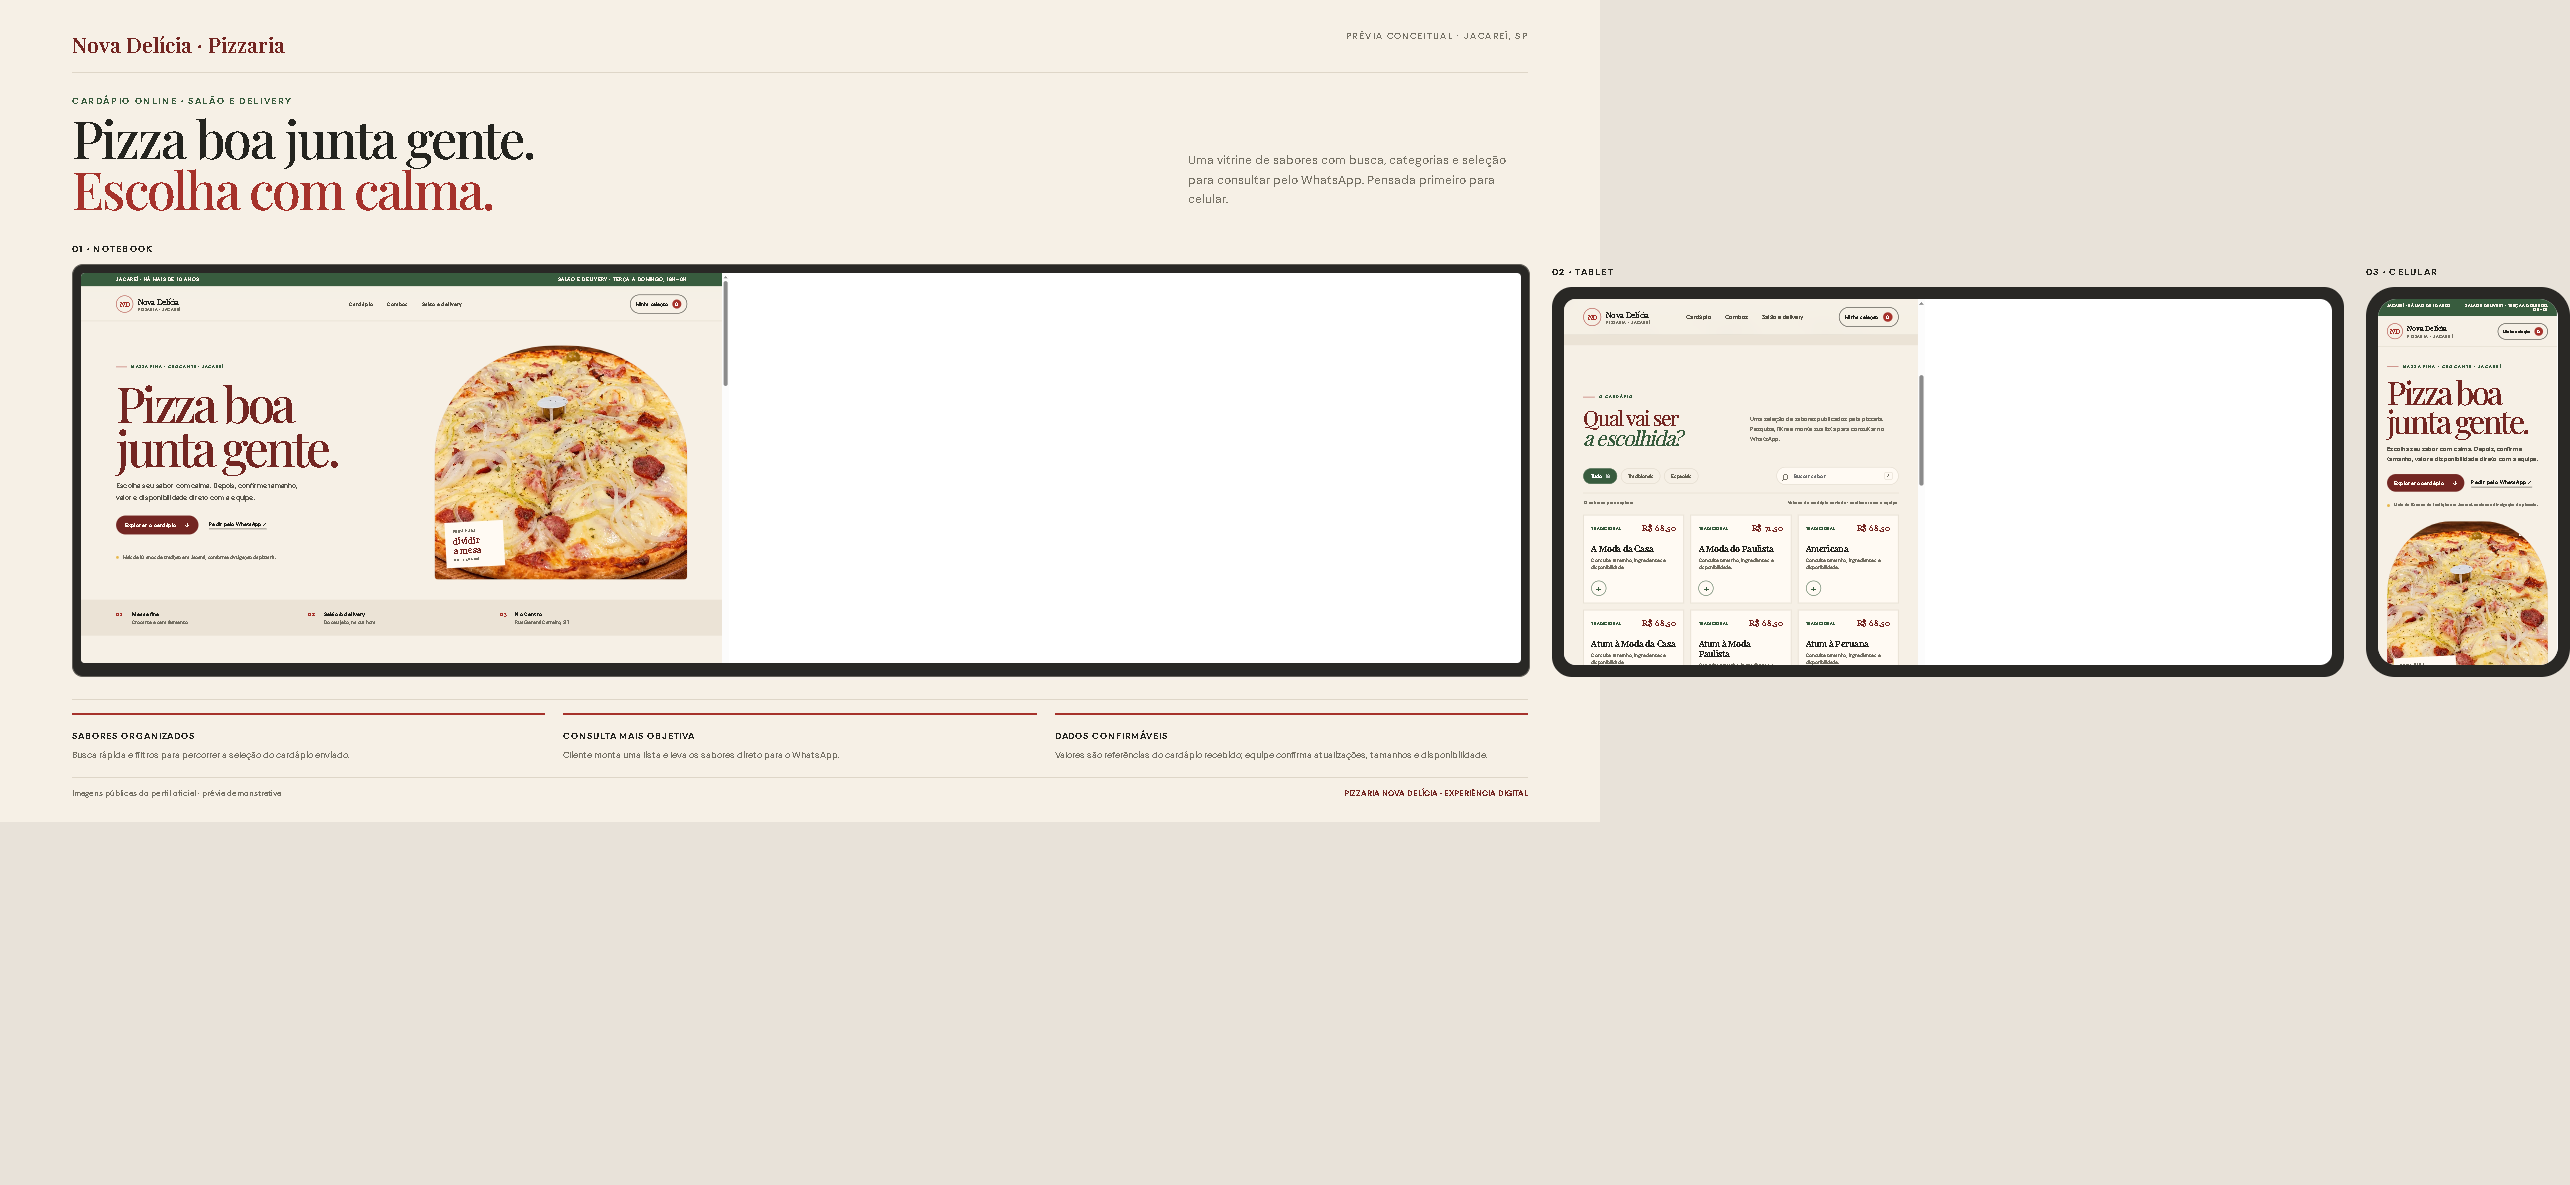
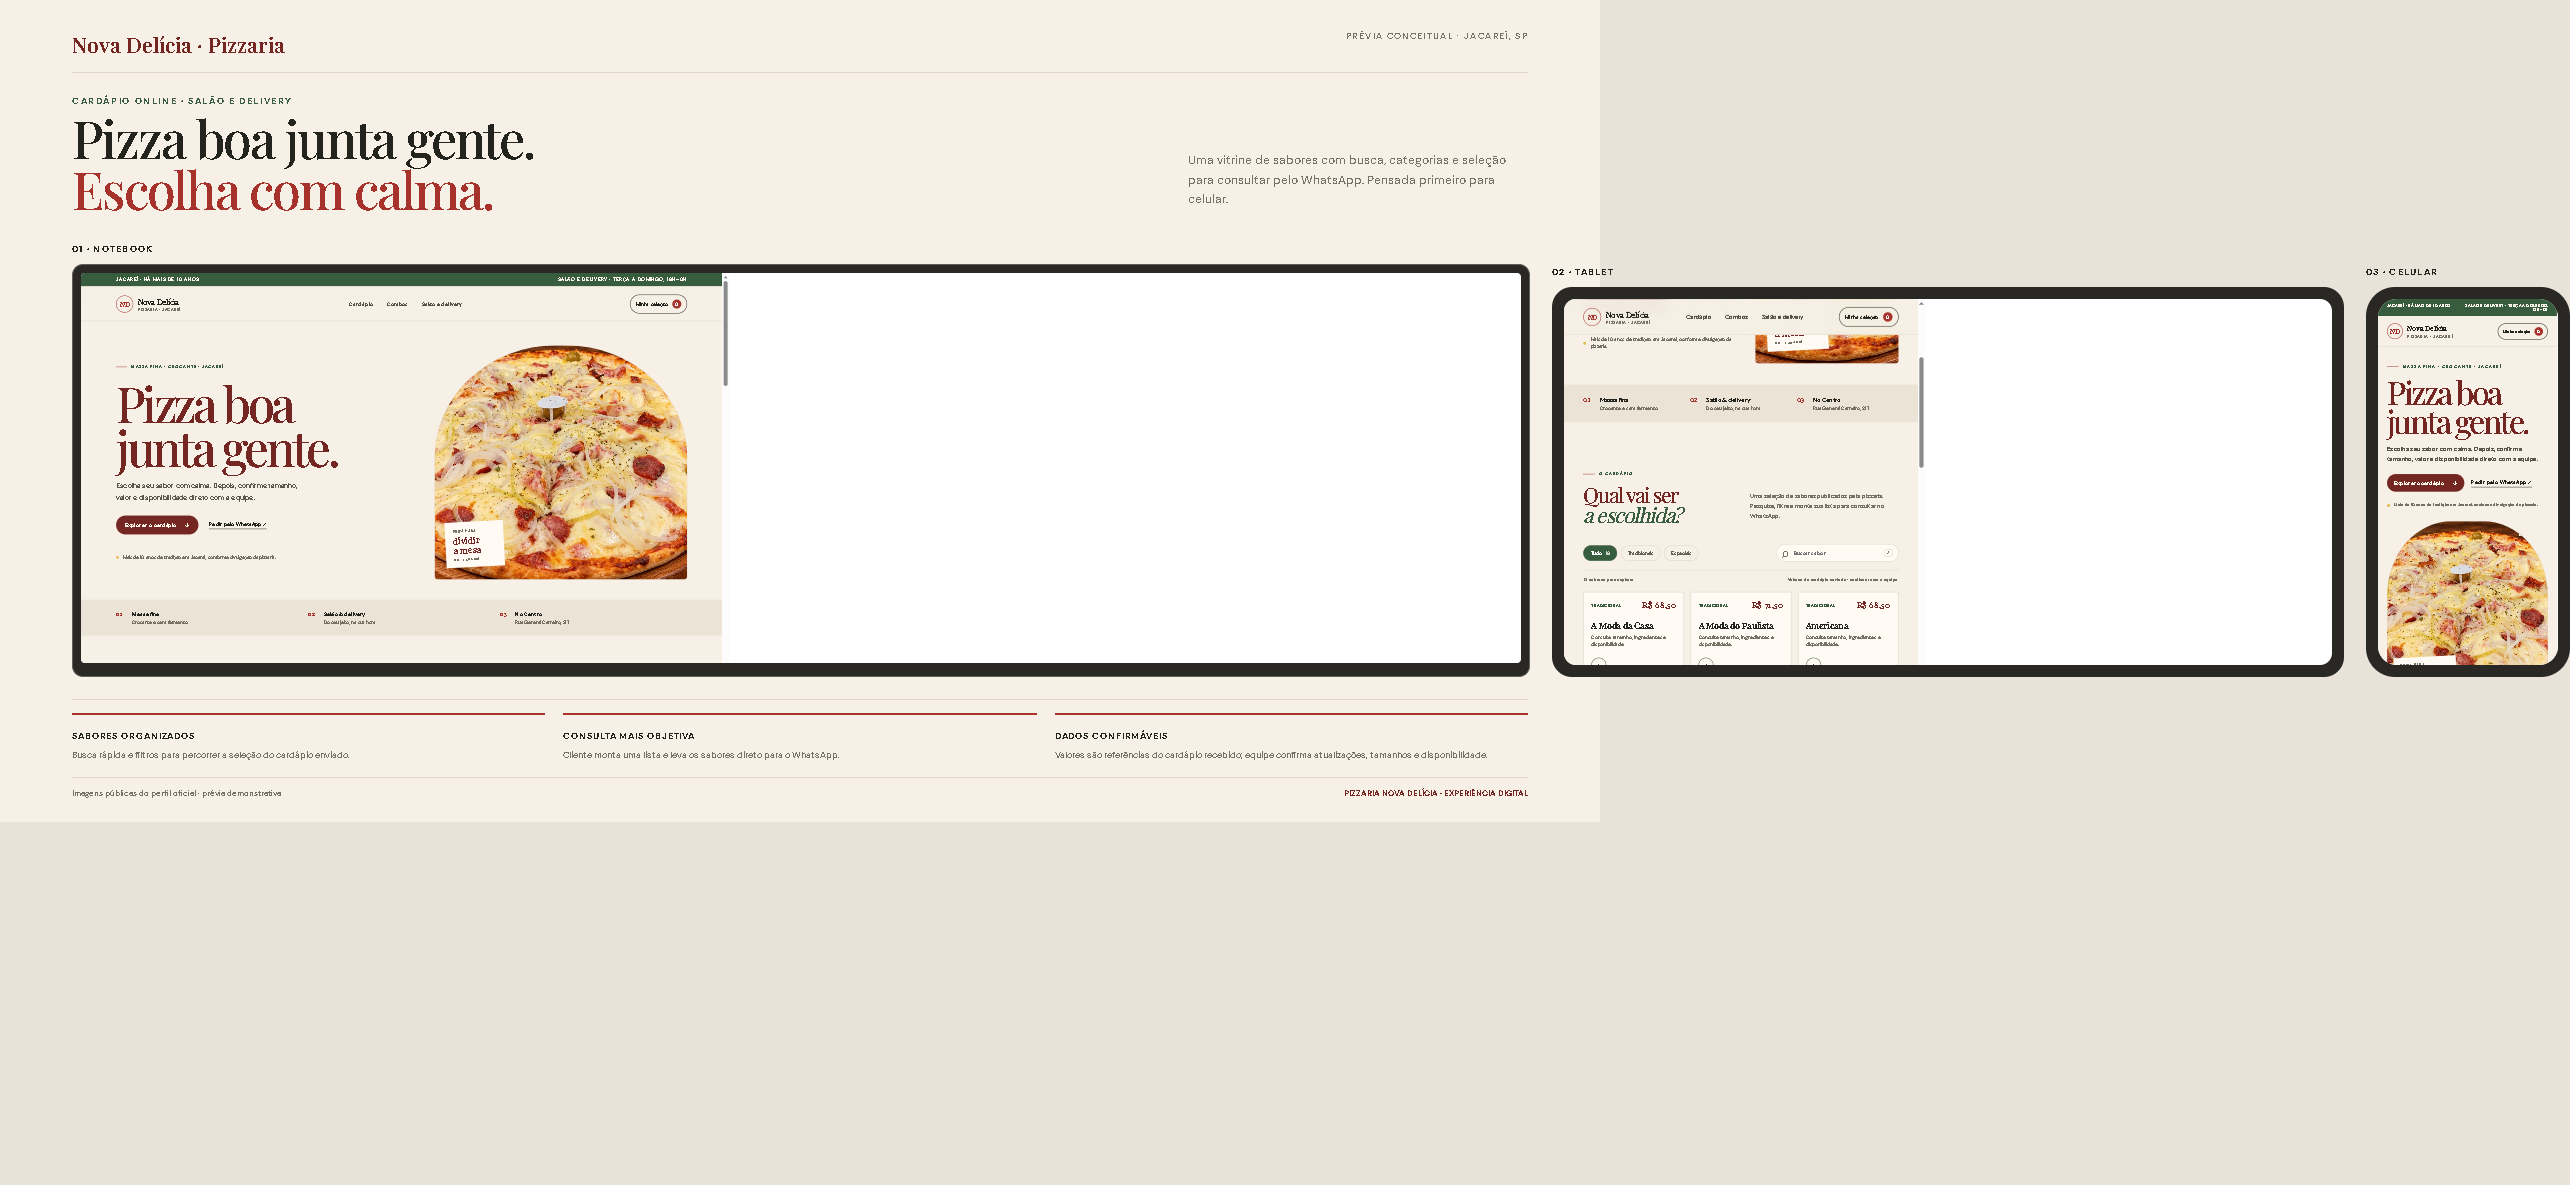
Polish three-device presentation board

Changed region(s): [[0.6226, 0.3435, 0.716, 0.562], [0.6848, 0.281, 0.7471, 0.3122], [0.6848, 0.3435, 0.716, 0.3747]]

diff --git a/arte/prancha.html b/arte/prancha.html
@@ -1,4 +1,2 @@
-<!doctype html><html lang="pt-BR"><head><meta charset="utf-8"><meta name="viewport" content="width=device-width,initial-scale=1"><title>Nova Delícia · Prancha de apresentação</title><link rel="preconnect" href="https://fonts.googleapis.com"><link href="https://fonts.googleapis.com/css2?family=DM+Sans:wght@400;500;600;700&family=Playfair+Display:wght@500;600;700&display=swap" rel="stylesheet"><style>
-*{box-sizing:border-box}body{margin:0;background:#e8e2d9;color:#24241f;font-family:'DM Sans',sans-serif}.sheet{width:min(100%,1600px);margin:auto;padding:30px 4.5% 24px;background:#f6f0e6}.top{display:flex;justify-content:space-between;border-bottom:1px solid #ded6c8;padding-bottom:14px}.brand{font:600 21px 'Playfair Display',serif;color:#732622}.meta{font-size:9px;letter-spacing:.15em;text-transform:uppercase;color:#767266}.intro{display:flex;justify-content:space-between;align-items:end;gap:30px;padding:22px 0}.intro h1{font:500 clamp(30px,4vw,52px)/.98 'Playfair Display',serif;letter-spacing:-.04em;margin:6px 0}.intro h1 em{font-style:normal;color:#a6322b}.intro p{max-width:340px;color:#767266;font-size:12px;line-height:1.6}.eyebrow{font-size:9px;letter-spacing:.18em;text-transform:uppercase;color:#385c3e;font-weight:700}.devices{display:grid;grid-template-columns:1.6fr .62fr .45fr;gap:22px;align-items:end}.label{font-size:9px;letter-spacing:.14em;text-transform:uppercase;font-weight:700;margin-bottom:9px}.laptop{padding:8px 8px 13px;border:1px solid #625f58;border-radius:11px;background:#292825}.laptop iframe{display:block;width:1440px;height:1010px;border:0;transform:scale(.63);transform-origin:top left}.laptop-screen{height:390px;overflow:hidden;border-radius:4px;background:white}.tablet{height:390px;border:7px solid #292825;border-radius:20px;padding:5px;background:#292825}.tablet iframe{width:768px;height:1024px;border:0;transform:scale(.63);transform-origin:top left}.tablet-screen{height:100%;overflow:hidden;border-radius:12px;background:white}.phone{height:390px;width:204px;margin:auto;border:7px solid #292825;border-radius:29px;padding:5px;background:#292825}.phone-screen{height:100%;overflow:hidden;border-radius:19px;background:white}.phone iframe{width:390px;height:844px;border:0;transform:scale(.32);transform-origin:top left}.notes{display:grid;grid-template-columns:repeat(3,1fr);gap:18px;margin-top:22px;padding-top:13px;border-top:1px solid #ded6c8}.note{border-top:2px solid #a6322b;padding-top:8px}.note b{font-size:9px;text-transform:uppercase;letter-spacing:.1em}.note p{font-size:9px;line-height:1.5;color:#767266;margin:5px 0 0}.foot{display:flex;justify-content:space-between;border-top:1px solid #ded6c8;padding-top:10px;margin-top:15px;font-size:8px;color:#767266}.foot strong{color:#732622}@media(max-width:760px){.sheet{padding:18px 5%}.intro{display:block}.intro p{margin-bottom:0}.devices{grid-template-columns:1fr 1fr}.device:first-child{grid-column:1/-1}.laptop-screen{height:230px}.laptop iframe{transform:scale(.63)}.tablet,.phone{height:340px}.tablet iframe{transform:scale(.63)}.phone{height:340px;width:178px}.phone iframe{transform:scale(.63)}.notes{grid-template-columns:1fr}.foot{display:block;line-height:1.6}.meta{text-align:right;max-width:145px}}
-</style></head><body><main class="sheet"><header class="top"><div class="brand">Nova Delícia · Pizzaria</div><div class="meta">Prévia conceitual · Jacareí, SP</div></header><section class="intro"><div><div class="eyebrow">Cardápio online · salão e delivery</div><h1>Pizza boa junta gente.<br><em>Escolha com calma.</em></h1></div><p>Uma vitrine de sabores com busca, categorias e seleção para consultar pelo WhatsApp. Pensada primeiro para celular.</p></section><section class="devices"><article class="device"><div class="label">01 · Notebook</div><div class="laptop"><div class="laptop-screen"><iframe src="../index.html" title="Site em notebook"></iframe></div></div></article><article class="device"><div class="label">02 · Tablet</div><div class="tablet"><div class="tablet-screen"><iframe src="../index.html#cardapio" title="Cardápio em tablet"></iframe></div></div></article><article class="device"><div class="label">03 · Celular</div><div class="phone"><div class="phone-screen"><iframe src="../index.html" title="Site em celular"></iframe></div></div></article></section><section class="notes"><article class="note"><b>Sabores organizados</b><p>Busca rápida e filtros para percorrer a seleção do cardápio enviado.</p></article><article class="note"><b>Consulta mais objetiva</b><p>Cliente monta uma lista e leva os sabores direto para o WhatsApp.</p></article><article class="note"><b>Dados confirmáveis</b><p>Valores são referências do cardápio recebido; equipe confirma atualizações, tamanhos e disponibilidade.</p></article></section><footer class="foot"><span>Imagens públicas do perfil oficial · prévia demonstrativa</span><strong>PIZZARIA NOVA DELÍCIA · EXPERIÊNCIA DIGITAL</strong></footer></main></body></html>
-
+<!doctype html><html lang="pt-BR"><head><meta charset="utf-8"><meta name="viewport" content="width=device-width,initial-scale=1"><title>Nova Delícia · Prancha de apresentação</title><link rel="preconnect" href="https://fonts.googleapis.com"><link href="https://fonts.googleapis.com/css2?family=DM+Sans:wght@400;500;600;700&family=Playfair+Display:wght@500;600;700&display=swap" rel="stylesheet"><style>*{box-sizing:border-box}body{margin:0;background:#e8e2d9;color:#24241f;font-family:'DM Sans',sans-serif}.sheet{width:min(100%,1600px);min-height:100vh;margin:auto;padding:30px 4.5% 24px;background:#f6f0e6}.top{display:flex;justify-content:space-between;border-bottom:1px solid #ded6c8;padding-bottom:14px}.brand{font:600 21px 'Playfair Display',serif;color:#732622}.meta{font-size:9px;letter-spacing:.15em;text-transform:uppercase;color:#767266}.intro{display:flex;justify-content:space-between;align-items:end;gap:30px;padding:22px 0}.intro h1{font:500 clamp(30px,4vw,52px)/.98 'Playfair Display',serif;letter-spacing:-.04em;margin:6px 0}.intro h1 em{font-style:normal;color:#a6322b}.intro p{max-width:340px;color:#767266;font-size:12px;line-height:1.6}.eyebrow{font-size:9px;letter-spacing:.18em;text-transform:uppercase;color:#385c3e;font-weight:700}.devices{display:grid;grid-template-columns:1.6fr .62fr .45fr;gap:22px;align-items:end}.label{font-size:9px;letter-spacing:.14em;text-transform:uppercase;font-weight:700;margin-bottom:9px}.frame{overflow:hidden;border:7px solid #292825;background:#292825;box-shadow:0 12px 24px #27211c1c}.laptop{padding:0 0 10px;border-radius:12px 12px 5px 5px}.laptop:after{display:block;position:relative;bottom:-15px;left:-3%;width:106%;height:7px;content:'';border-radius:0 0 50% 50%;background:linear-gradient(90deg,#d2cec8,#fff,#d2cec8)}.laptop .frame{height:390px;border-width:7px 7px 0;border-radius:5px}.laptop img{width:100%;height:100%;object-fit:cover;object-position:top center}.tablet{height:390px;border-radius:21px;padding:6px}.tablet img{width:100%;height:100%;object-fit:cover;object-position:top center;border-radius:11px}.phone{height:390px;width:190px;margin:auto;border-radius:30px;padding:5px}.phone img{width:100%;height:100%;object-fit:cover;object-position:top center;border-radius:20px}.notes{display:grid;grid-template-columns:repeat(3,1fr);gap:18px;margin-top:22px;padding-top:13px;border-top:1px solid #ded6c8}.note{border-top:2px solid #a6322b;padding-top:8px}.note b{font-size:9px;text-transform:uppercase;letter-spacing:.1em}.note p{font-size:9px;line-height:1.5;color:#767266;margin:5px 0 0}.foot{display:flex;justify-content:space-between;border-top:1px solid #ded6c8;padding-top:10px;margin-top:15px;font-size:8px;color:#767266}.foot strong{color:#732622}@media(max-width:760px){.sheet{padding:18px 5%}.intro{display:block}.intro p{margin-bottom:0}.devices{grid-template-columns:1fr 1fr}.device:first-child{grid-column:1/-1}.laptop .frame{height:230px}.tablet{height:340px}.phone{height:340px;width:178px}.notes{grid-template-columns:1fr}.foot{display:block;line-height:1.6}.meta{text-align:right;max-width:145px}}
+</style></head><body><main class="sheet"><header class="top"><div class="brand">Nova Delícia · Pizzaria</div><div class="meta">Prévia conceitual · Jacareí, SP</div></header><section class="intro"><div><div class="eyebrow">Cardápio online · salão e delivery</div><h1>Pizza boa junta gente.<br><em>Escolha com calma.</em></h1></div><p>Uma vitrine de sabores com busca, categorias e seleção para consultar pelo WhatsApp. Pensada primeiro para celular.</p></section><section class="devices"><article class="device"><div class="label">01 · Notebook</div><div class="laptop"><div class="frame"><img src="../assets/preview-notebook.png" alt="Site da pizzaria no notebook"></div></div></article><article class="device"><div class="label">02 · Tablet</div><div class="frame tablet"><img src="../assets/preview-tablet.png" alt="Cardápio da pizzaria em tablet"></div></article><article class="device"><div class="label">03 · Celular</div><div class="frame phone"><img src="../assets/preview-mobile.png" alt="Site da pizzaria no celular"></div></article></section><section class="notes"><article class="note"><b>Sabores organizados</b><p>Busca rápida e filtros para percorrer a seleção do cardápio enviado.</p></article><article class="note"><b>Consulta mais objetiva</b><p>Cliente monta uma lista e leva os sabores direto para o WhatsApp.</p></article><article class="note"><b>Dados confirmáveis</b><p>Valores são referências do cardápio recebido; equipe confirma atualizações, tamanhos e disponibilidade.</p></article></section><footer class="foot"><span>Imagens públicas do perfil oficial · prévia demonstrativa</span><strong>PIZZARIA NOVA DELÍCIA · EXPERIÊNCIA DIGITAL</strong></footer></main></body></html>

diff --git a/README.md b/README.md
@@ -5,7 +5,7 @@ Vitrine demonstrativa mobile-first para a Pizzaria Nova Delícia, em Jacareí. O
 ## Abrir
 - Site: `index.html`
 - Prancha responsiva: `arte/prancha.html`
-- PNG para apresentação: `arte/pizzaria-nova-delicia-prancha.png`
+- PNG para apresentação: `arte/pizzaria-nova-delicia-prancha.png` (prancha ilustrativa em três dispositivos)
 
 ## Conteúdo e limites
 - Inclui uma seleção de 18 sabores do material recebido, busca, filtro e lista de consulta via WhatsApp.
@@ -15,3 +15,4 @@ Vitrine demonstrativa mobile-first para a Pizzaria Nova Delícia, em Jacareí. O
 
 ## Contatos e endereço divulgados
 Rua General Carneiro, 217, Centro, Jacareí–SP. WhatsApp (12) 98157-6204. Telefones (12) 3953-3327 e (12) 3953-3339. Horário divulgado: terça a domingo, 18h–0h; confirmar antes de publicar.
+
